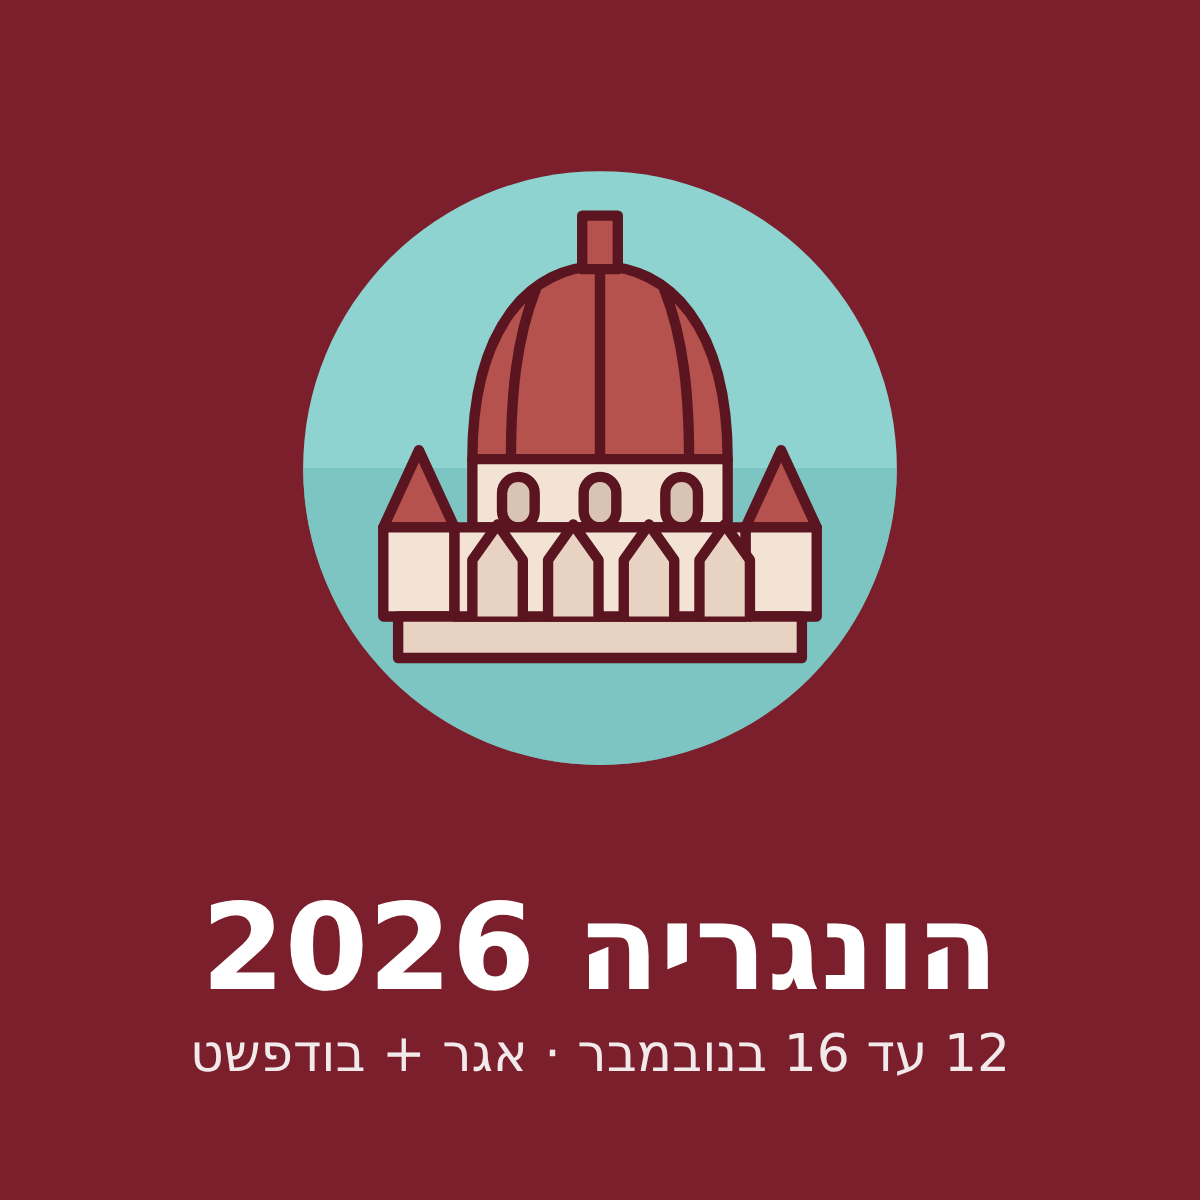
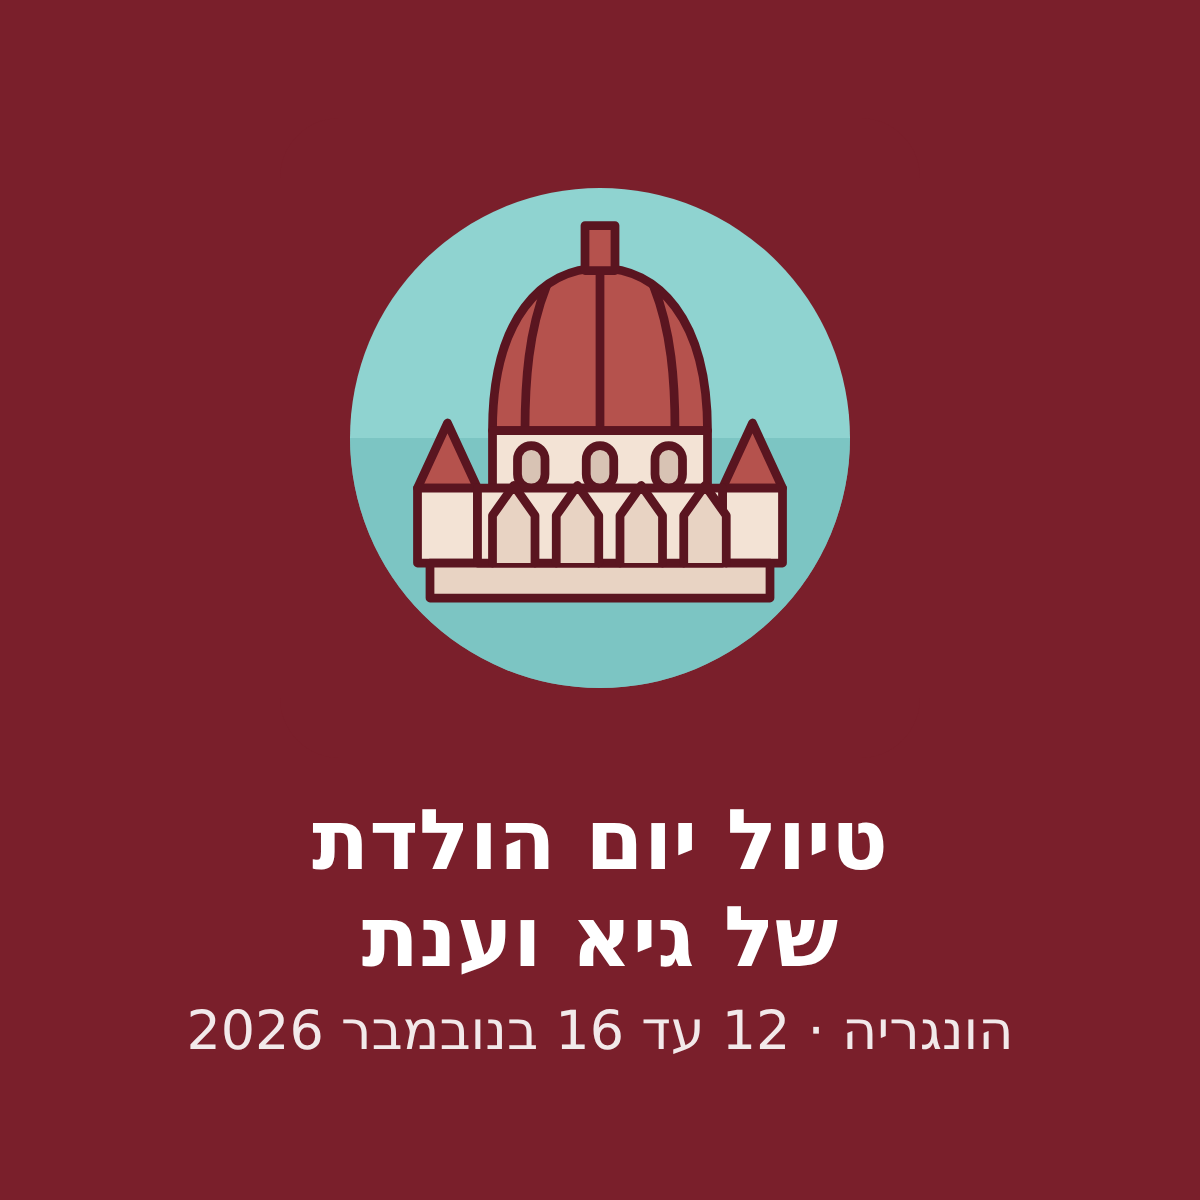
Update title to birthday trip of Guy and Anat; refresh share image
Claude-Session: https://claude.ai/code/session_01TrXN1CDk1J6v64Lgjg8fzu

Changed region(s): [[0.2467, 0.1233, 0.7708, 0.6475], [0.1542, 0.6783, 0.8633, 0.8942]]

diff --git a/index.html b/index.html
@@ -3,11 +3,11 @@
 <head>
 <meta charset="utf-8">
 <meta name="viewport" content="width=device-width,initial-scale=1,viewport-fit=cover">
-<title>הונגריה 2026 · אגר + בודפשט</title>
-<meta name="description" content="תוכנית הטיול שלנו: 12–16 בנובמבר 2026, אגר ובודפשט">
+<title>טיול יום הולדת של גיא וענת הונגריה</title>
+<meta name="description" content="12 עד 16 בנובמבר 2026 · אגר ובודפשט">
 <meta property="og:type" content="website">
-<meta property="og:title" content="הונגריה 2026 · אגר + בודפשט">
-<meta property="og:description" content="12 עד 16 בנובמבר. לו״ז, הזמנות ומסעדות.">
+<meta property="og:title" content="טיול יום הולדת של גיא וענת הונגריה">
+<meta property="og:description" content="12 עד 16 בנובמבר 2026 · אגר ובודפשט · לו״ז, הזמנות ומסעדות">
 <meta property="og:url" content="https://edenguy.github.io/hungary-trip-2026/">
 <meta property="og:image" content="https://edenguy.github.io/hungary-trip-2026/og-image.png">
 <meta property="og:image:width" content="1200">

diff --git a/sw.js b/sw.js
@@ -1,4 +1,4 @@
-const C='hu-trip-v3',F=['./','index.html','style.css','data.js','app.js','manifest.webmanifest','icon.svg','icon-192.png','favicon-32.png'];
+const C='hu-trip-v4',F=['./','index.html','style.css','data.js','app.js','manifest.webmanifest','icon.svg','icon-192.png','favicon-32.png'];
 self.addEventListener('install',e=>{e.waitUntil(caches.open(C).then(c=>c.addAll(F)));self.skipWaiting()});
 self.addEventListener('activate',e=>e.waitUntil(caches.keys().then(k=>Promise.all(k.filter(x=>x!==C).map(x=>caches.delete(x)))).then(()=>clients.claim())));
 self.addEventListener('fetch',e=>{const u=new URL(e.request.url);if(u.origin!==location.origin)return;

diff --git a/data.js b/data.js
@@ -5,7 +5,7 @@
 // wiki = שמות ערכים בוויקיפדיה (אנגלית) ממנה נטענות תמונות.
 
 window.TRIP = {
-  title: "הונגריה",
+  title: "טיול יום הולדת של גיא וענת הונגריה",
   subtitle: "12 עד 16 בנובמבר 2026 · אגר + בודפשט",
   start: "2026-11-12",
   end: "2026-11-16",
